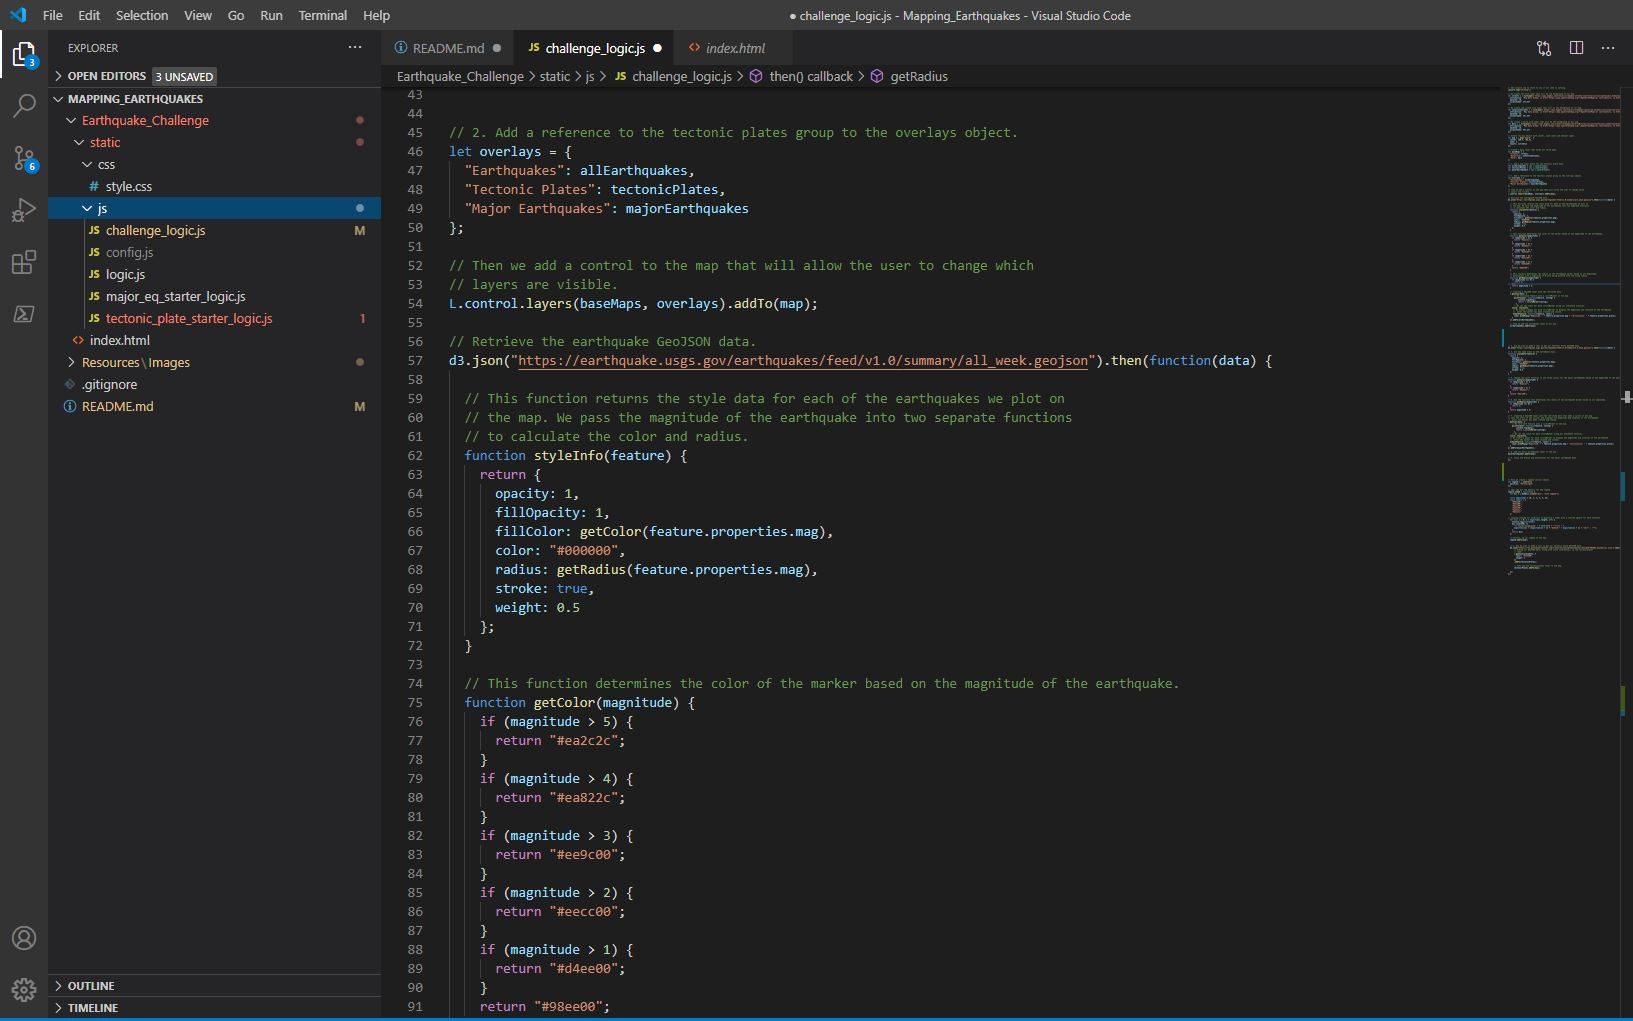
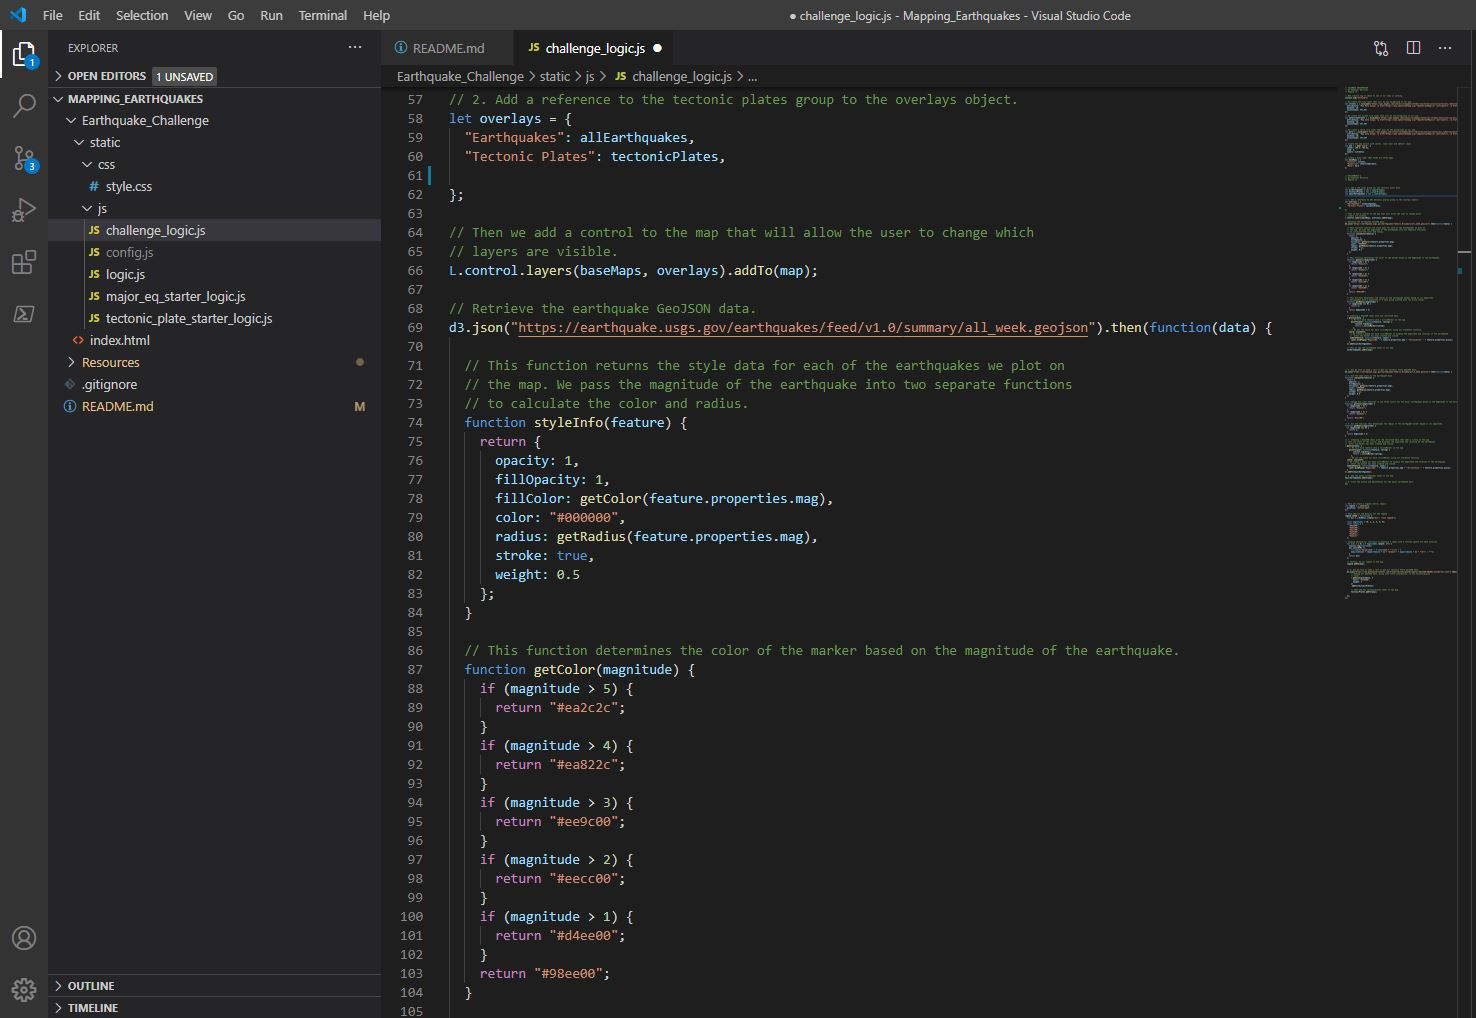
update

diff --git a/Earthquake_Challenge/static/js/challenge_logic.js b/Earthquake_Challenge/static/js/challenge_logic.js
@@ -19,6 +19,12 @@ let satelliteStreets = L.tileLayer('https://api.mapbox.com/styles/v1/mapbox/sate
 	accessToken: API_KEY
 });
 
+
+
+// DELIVERABLE 3
+// By Emmanuel Martinez
+// Module 13
+
 // We create a third tile layer that will be the background of our map.
 let dark = L.tileLayer('https://api.mapbox.com/styles/v1/mapbox/dark-v10/tiles/{z}/{x}/{y}?access_token={accessToken}', {
 	attribution: 'Map data &copy; <a href="https://www.openstreetmap.org/">OpenStreetMap</a> contributors, <a href="https://creativecommons.org/licenses/by-sa/2.0/">CC-BY-SA</a>, Imagery (c) <a href="https://www.mapbox.com/">Mapbox</a>',
@@ -26,12 +32,19 @@ let dark = L.tileLayer('https://api.mapbox.com/styles/v1/mapbox/dark-v10/tiles/{
 	accessToken: API_KEY
 });
 
+
+
 // Create the map object with center, zoom level and default layer.
 let map = L.map('mapid', {
 	center: [40.7, -94.5],
 	zoom: 3,
 	layers: [streets]
 });
+
+
+// DELIVERABLE 3
+// By Emmanuel Martinez
+// Module 13
 
 // Create a base layer that holds all three maps.
 let baseMaps = {
@@ -42,7 +55,7 @@ let baseMaps = {
 
 
 
-// DELIVERABLE 1
+// DELIVERABLE 1 and 2
 // By Emmanuel Martinez
 // Module 13
 
@@ -134,12 +147,12 @@ d3.json("https://earthquake.usgs.gov/earthquakes/feed/v1.0/summary/all_week.geoj
 
 
 
+// DELIVERABLE 2
+// By Emmanuel Martinez
+// Module 13
 
 
-
-
-
-// 3. Use d3.json to make a call to get our Tectonic Plate geoJSON data.
+// 3. Retrieve the major earthquake GeoJSON data >4.5 mag for the week.
 d3.json("https://earthquake.usgs.gov/earthquakes/feed/v1.0/summary/4.5_week.geojson").then(function(data) {
 
 // 4. Use the same style as the earthquake data.
@@ -199,12 +212,9 @@ majorEarthquakes.addTo(map);
 });
 
 
-
-
-
-
-
-
+// DELIVERABLE 1 and 2
+// By Emmanuel Martinez
+// Module 13
 
 // Here we create a legend control object.
 let legend = L.control({

diff --git a/README.md b/README.md
@@ -109,7 +109,7 @@ Your final map should look similar to the following image:
 // 1. Add a 2nd layer group for the tectonic plate data.
 let allEarthquakes = new L.LayerGroup();
 let tectonicPlates = new L.LayerGroup();
-let majorEarthquakes = new L.LayerGroup();
+
 ````
 
 ![name-of-you-image](https://github.com/emmanuelmartinezs/Mapping_Earthquakes/blob/main/Resources/Images/1.1.JPG?raw=true)
@@ -133,7 +133,7 @@ let majorEarthquakes = new L.LayerGroup();
 let overlays = {
   "Earthquakes": allEarthquakes,
   "Tectonic Plates": tectonicPlates,
-  "Major Earthquakes": majorEarthquakes
+
 };
 
 // Then we add a control to the map that will allow the user to change which
@@ -178,38 +178,10 @@ d3.json("https://earthquake.usgs.gov/earthquakes/feed/v1.0/summary/all_week.geoj
     return "#98ee00";
   }
 
-  // This function determines the radius of the earthquake marker based on its magnitude.
-  // Earthquakes with a magnitude of 0 were being plotted with the wrong radius.
-  function getRadius(magnitude) {
-    if (magnitude === 0) {
-      return 1;
-    }
-    return magnitude * 4;
-  }
-
-  // Creating a GeoJSON layer with the retrieved data.
-  L.geoJson(data, {
-    	// We turn each feature into a circleMarker on the map.
-    	pointToLayer: function(feature, latlng) {
-      		console.log(data);
-      		return L.circleMarker(latlng);
-        },
-      // We set the style for each circleMarker using our styleInfo function.
-    style: styleInfo,
-     // We create a popup for each circleMarker to display the magnitude and location of the earthquake
-     //  after the marker has been created and styled.
-     onEachFeature: function(feature, layer) {
-      layer.bindPopup("Magnitude: " + feature.properties.mag + "<br>Location: " + feature.properties.place);
-    }
-  }).addTo(allEarthquakes);
-
-  // Then we add the earthquake layer to our map.
-  allEarthquakes.addTo(map);
 ````
 
 ![name-of-you-image](https://github.com/emmanuelmartinezs/Mapping_Earthquakes/blob/main/Resources/Images/1.2.JPG?raw=true)
 
-![name-of-you-image](https://github.com/emmanuelmartinezs/Mapping_Earthquakes/blob/main/Resources/Images/1.2.1.JPG?raw=true)
 
 
 
@@ -238,11 +210,6 @@ d3.json("https://earthquake.usgs.gov/earthquakes/feed/v1.0/summary/all_week.geoj
         weight: 2
       })
       .addTo(tectonicPlates);
-
-      // Then add the tectonicplates layer to the map.
-      tectonicPlates.addTo(map);
-    
-  });
 ````
 
 ![name-of-you-image](https://github.com/emmanuelmartinezs/Mapping_Earthquakes/blob/main/Resources/Images/1.3.JPG?raw=true)
@@ -303,11 +270,15 @@ Your final map should look similar to the following image:
 **Code and Image**
 
 
-````java
-// COLUMBIA ENGINEERING 
+````js
+// DELIVERABLE 2
 // By Emmanuel Martinez
-// Module 12
+// Module 13
 
+// 1. Add a 3rd layer group for the tectonic plate data.
+let allEarthquakes = new L.LayerGroup();
+let tectonicPlates = new L.LayerGroup();
+let majorEarthquakes = new L.LayerGroup();
 
 ````
 
@@ -323,10 +294,17 @@ Your final map should look similar to the following image:
 **Code and Image**
 
 
-````java
-// 1. Create the buildCharts function.
-function buildCharts(sample) {
-  // 2. Use d3.json to load and retrieve the samples.json file 
+````js
+// DELIVERABLE 2
+// By Emmanuel Martinez
+// Module 13
+
+// 2. Add a reference to the tectonic plates group to the overlays object.
+let overlays = {
+  "Earthquakes": allEarthquakes,
+  "Tectonic Plates": tectonicPlates,
+  "Major Earthquakes": majorEarthquakes
+};
 ````
 
 ![name-of-you-image](https://github.com/emmanuelmartinezs/Mapping_Earthquakes/blob/main/Resources/Images/2.2.JPG?raw=true)
@@ -345,13 +323,70 @@ function buildCharts(sample) {
 **Code and Image**
 
 
-````java
-    // 9. Create the layout for the bar chart. 
-    var barLayout = {
-     title: "Top 10 Bacteria Cultures Found"
-    };
-    // 10. Use Plotly to plot the data with the layout. 
-    Plotly.newPlot("bar", barData, barLayout);
+````js
+// DELIVERABLE 2
+// By Emmanuel Martinez
+// Module 13
+
+
+// 3. Retrieve the major earthquake GeoJSON data >4.5 mag for the week.
+d3.json("https://earthquake.usgs.gov/earthquakes/feed/v1.0/summary/4.5_week.geojson").then(function(data) {
+
+// 4. Use the same style as the earthquake data.
+function styleInfo(feature) {
+  return {
+    opacity: 1,
+    fillOpacity: 1,
+    fillColor: getColor(feature.properties.mag),
+    color: "#000000",
+    radius: getRadius(feature.properties.mag),
+    stroke: true,
+    weight: 0.5
+  };
+}
+  
+// 5. Change the color function to use three colors for the major earthquakes based on the magnitude of the earthquake.
+function getColor(magnitude) {
+  if (magnitude > 5) {
+    return "#ea2c2c";
+  }
+  if (magnitude > 4) {
+    return "#ea822c";
+  }
+  return "#eecc00";
+}
+  
+// 6. Use the function that determines the radius of the earthquake marker based on its magnitude.
+function getRadius(magnitude) {
+  if (magnitude === 0) {
+    return 1;
+  }
+  return magnitude * 4;
+}
+  
+// 7. Creating a GeoJSON layer with the retrieved data that adds a circle to the map 
+// sets the style of the circle, and displays the magnitude and location of the earthquake
+//  after the marker has been created and styled.
+L.geoJson(data, {
+    // We turn each feature into a circleMarker on the map.
+    pointToLayer: function(feature, latlng) {
+        console.log(data);
+        return L.circleMarker(latlng);
+      },
+    // We set the style for each circleMarker using our styleInfo function.
+  style: styleInfo,
+  // We create a popup for each circleMarker to display the magnitude and location of the earthquake
+  //  after the marker has been created and styled.
+  onEachFeature: function(feature, layer) {
+    layer.bindPopup("Magnitude: " + feature.properties.mag + "<br>Location: " + feature.properties.place);
+  }
+}).addTo(majorEarthquakes);
+  
+// 8. Add the major earthquakes layer to the map.
+majorEarthquakes.addTo(map);
+
+// 9. Close the braces and parentheses for the major earthquake data.
+});
 ````
 
 ![name-of-you-image](https://github.com/emmanuelmartinezs/Mapping_Earthquakes/blob/main/Resources/Images/2.3.JPG?raw=true)
@@ -366,11 +401,21 @@ function buildCharts(sample) {
 **Code and Image**
 
 
-````java
-// COLUMBIA ENGINEERING 
-// By Emmanuel Martinez
-// Module 12
+````js
+  d3.json("https://raw.githubusercontent.com/fraxen/tectonicplates/master/GeoJSON/PB2002_boundaries.json").then(function(plateData) {
+      // Adding our geoJSON data, along with style information, to the tectonicplates
+      // layer.
+      L.geoJson(plateData, {
+        color: "#ff6500",
+        weight: 2
+      })
+      .addTo(tectonicPlates);
 
+      // Then add the tectonicplates layer to the map.
+      tectonicPlates.addTo(map);
+    
+  });
+});
 ````
 
 ![name-of-you-image](https://github.com/emmanuelmartinezs/Mapping_Earthquakes/blob/main/Resources/Images/2.4.JPG?raw=true)
@@ -404,10 +449,17 @@ Your final map should look similar to the following image:
 **Code and Image**
 
 
-````java
-// COLUMBIA ENGINEERING 
+````js
+// DELIVERABLE 3
 // By Emmanuel Martinez
-// Module 12
+// Module 13
+
+// We create a third tile layer that will be the background of our map.
+let dark = L.tileLayer('https://api.mapbox.com/styles/v1/mapbox/dark-v10/tiles/{z}/{x}/{y}?access_token={accessToken}', {
+	attribution: 'Map data &copy; <a href="https://www.openstreetmap.org/">OpenStreetMap</a> contributors, <a href="https://creativecommons.org/licenses/by-sa/2.0/">CC-BY-SA</a>, Imagery (c) <a href="https://www.mapbox.com/">Mapbox</a>',
+	maxZoom: 18,
+	accessToken: API_KEY
+});
 
 
 ````
@@ -424,10 +476,17 @@ Your final map should look similar to the following image:
 **Code and Image**
 
 
-````java
-// 1. Create the buildCharts function.
-function buildCharts(sample) {
-  // 2. Use d3.json to load and retrieve the samples.json file 
+````js
+// DELIVERABLE 3
+// By Emmanuel Martinez
+// Module 13
+
+// Create a base layer that holds all three maps.
+let baseMaps = {
+  "Streets": streets,
+  "Satellite": satelliteStreets,
+  "Dark": dark
+};
 ````
 
 ![name-of-you-image](https://github.com/emmanuelmartinezs/Mapping_Earthquakes/blob/main/Resources/Images/3.2.JPG?raw=true)
@@ -455,27 +514,20 @@ function buildCharts(sample) {
 
 
 
-4. **All the earthquake data and tectonic plate data are displayed on the map when the page loads and the datasets can be toggled on or off.**
+# Deliverable 4:  
+A written report on the Mapping Earthquakes analysis [`README.md`](https://github.com/emmanuelmartinezs/Mapping_Earthquakes/). 
 
 
-> Image with `JavaScript` & `HTML` Code below.
-
-**Code and Image**
+1. **A README.md that describes the purpose of the repository. Although there is no graded written analysis for this challenge, it is encouraged and good practice to add a brief description of your project.**
 
 
-````java
-// COLUMBIA ENGINEERING 
-// By Emmanuel Martinez
-// Module 12
-
-````
-
-![name-of-you-image](https://github.com/emmanuelmartinezs/Mapping_Earthquakes/blob/main/Resources/Images/2.4.JPG?raw=true)
+# ***EXTRA 5***: 
+Enable IO Page for [`Mapping Earthquakes`](https://emmanuelmartinezs.github.io/Mapping_Earthquakes/) analysis. 
 
 
 > Please visit the Site below to intercat with the Data!
 
-[`Belly Button Biodiversity Dashboard`](https://emmanuelmartinezs.github.io/Plotly). 
+[`Mapping Earthquakes`](https://emmanuelmartinezs.github.io/Mapping_Earthquakes/). 
 
 
 
